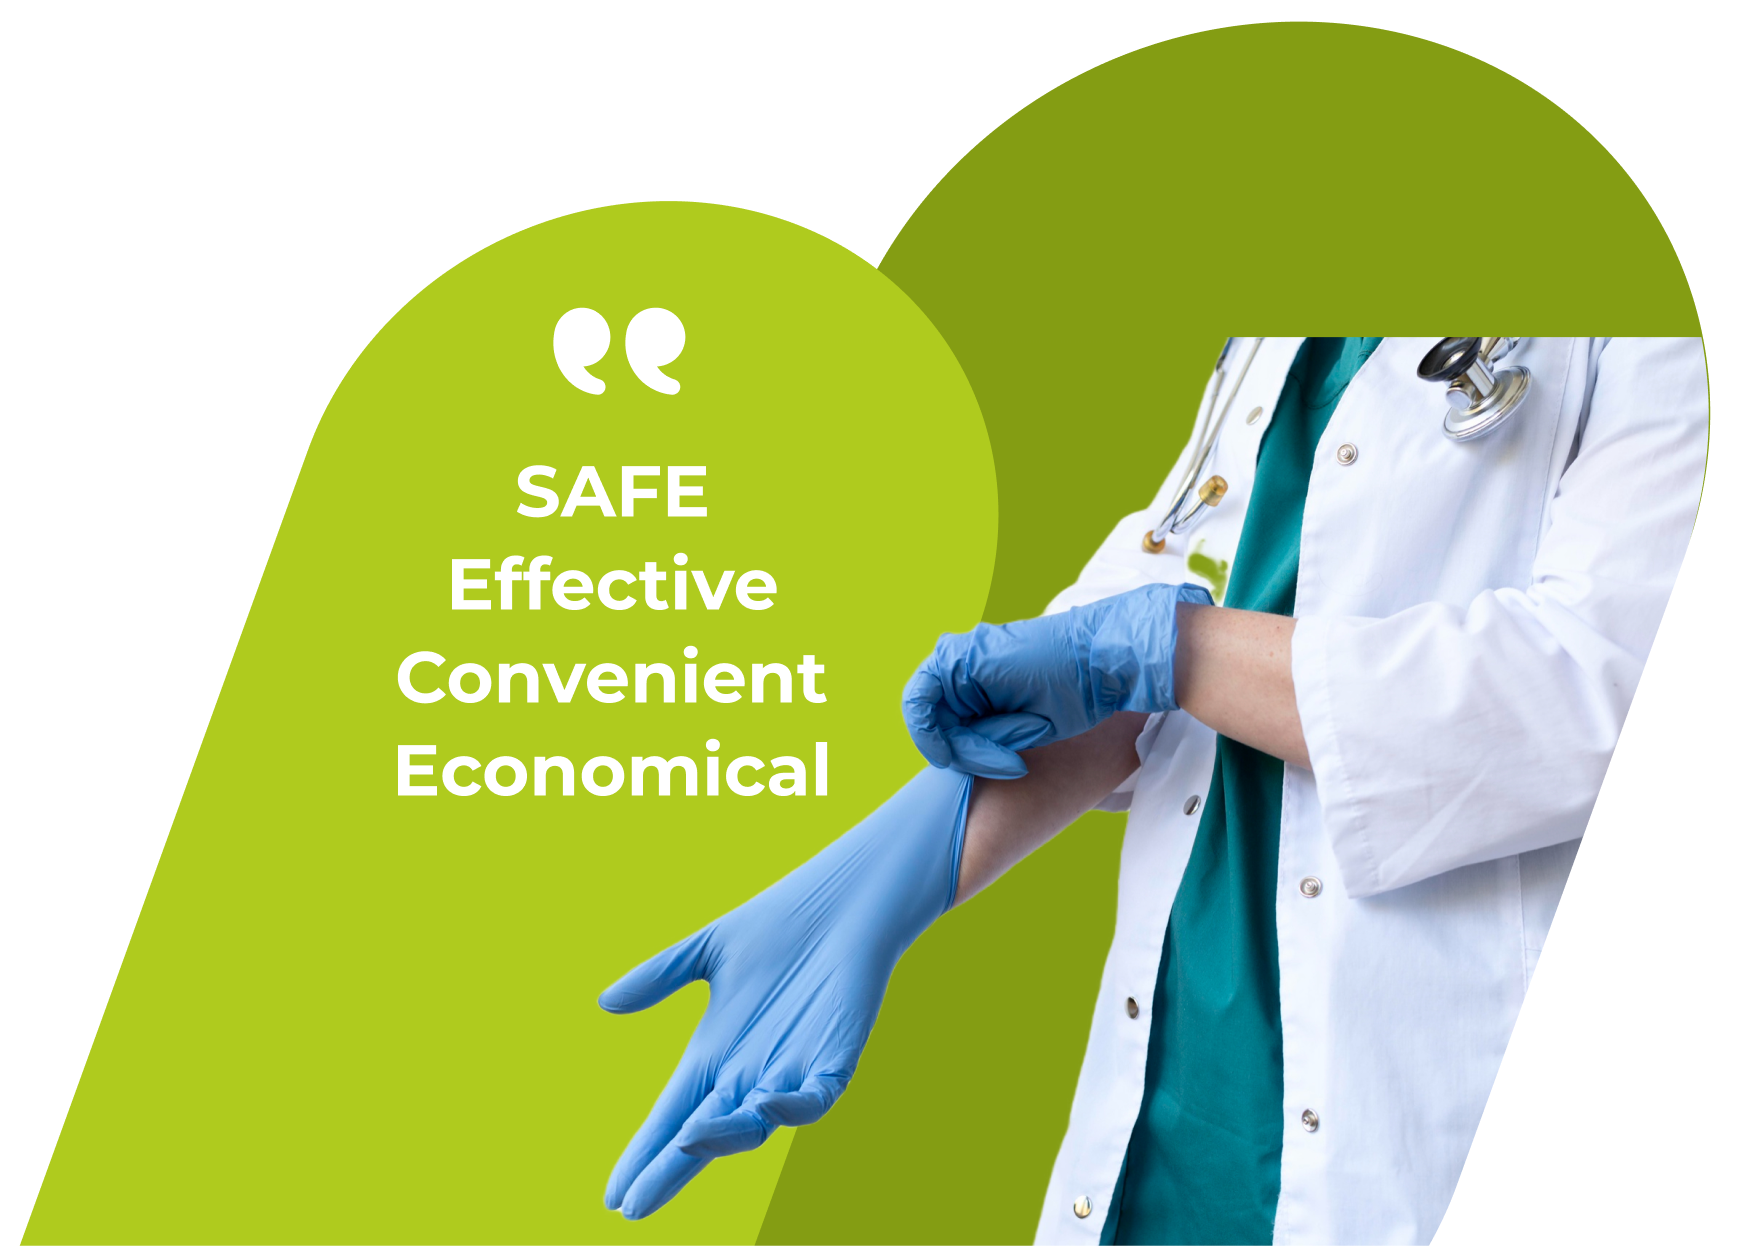
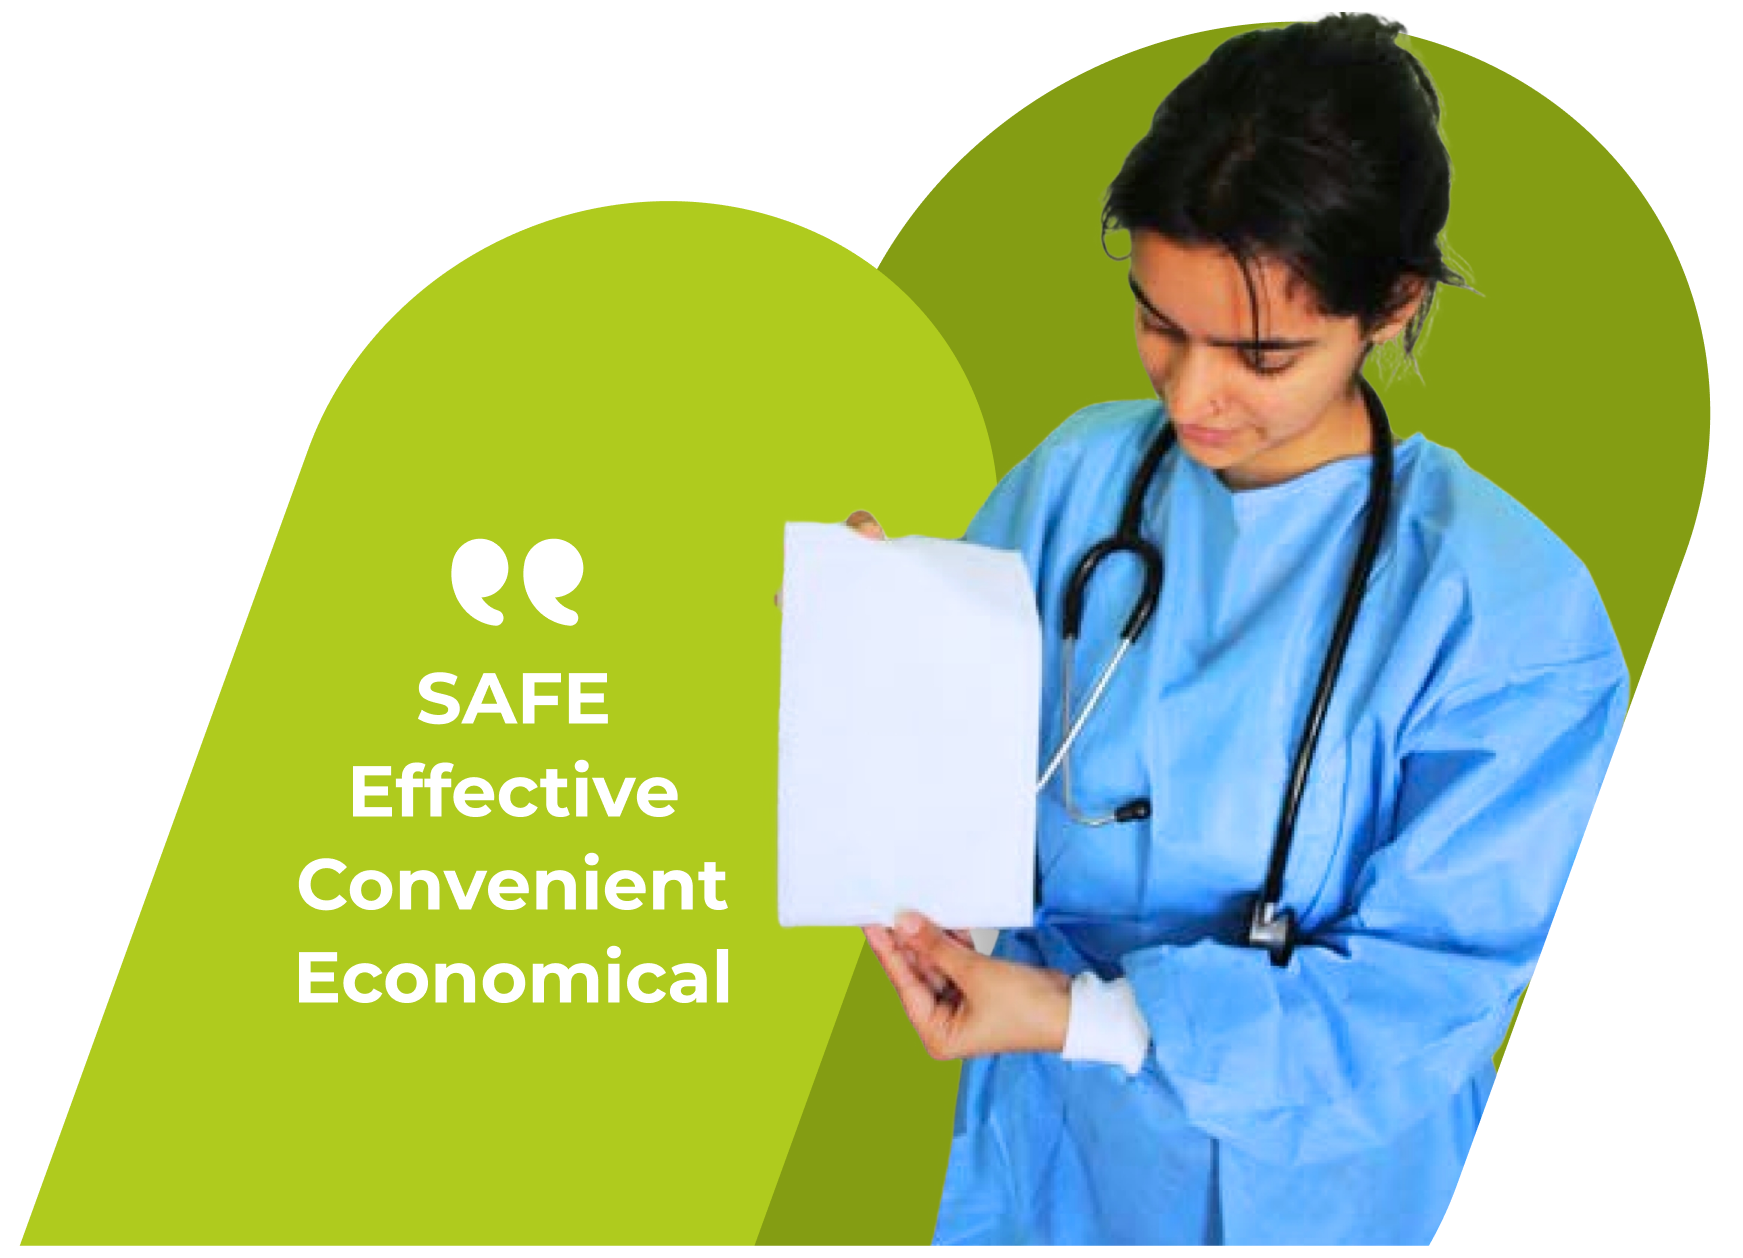
update image and add new component

diff --git a/src/components/ThirdSection.tsx b/src/components/ThirdSection.tsx
@@ -19,10 +19,11 @@ export default function ThirdSection() {
                     <div className='flex-1 relative grid lg:grid-cols-[1fr_450px] grid-cols-1 gap-5'>
                         <div className="w-full h-full relative flex justify-center flex-col pr-5">
                             <h3 className='font-semibold lg:text-3xl md:text-xl text-base text-secondry'>
-                                A Smarter Way to Care
+                                A New Standard in Hygiene Care
                             </h3>
                             <Subheading classname='text-left mt-3 max-w-2xl'>
-                                Wet Wash Gloves are an innovative alternative to traditional bed baths and wet wipes. Designed for safety, comfort, and efficiency, these single-use gloves are infused with pH-balanced cleansers that protect fragile skin while ensuring superior hygiene. Easy to warm in a microwave for added comfort, they save caregivers time, reduce infection risks, and preserve patient dignity—setting a new standard for hygiene in hospitals, elderly care, and palliative settings worldwide.
+                                Traditional bed baths are water-heavy, time-consuming, and infection-prone. EQ Wet Wash Gloves offer a modern alternative: pre-moistened, single-use cleansing gloves designed to protect delicate skin, improve caregiver efficiency, and preserve dignity.
+                                Microwave-safe for warmth, dermatologically tested for safety, and available in biodegradable options, they set a new benchmark for healthcare facilities, senior care, and home care services.
                             </Subheading>
                             <ButtonPrimary classname='mt-8 w-max'>
                                 Discover How It Works
@@ -30,7 +31,7 @@ export default function ThirdSection() {
                         </div>
 
                         <div className="w-full h-full relative flex lg:justify-end justify-center items-center">
-                            <Image src={'/images/product.png'} alt='image'
+                            <Image src={'/images/img.png'} alt='image'
                                 width={800}
                                 height={500}
                                 className='w-[450px]' />

diff --git a/src/components/WetWash.tsx b/src/components/WetWash.tsx
@@ -1,0 +1,28 @@
+import { Heading, Section, Subheading, Wrapper } from '@/utils/Section'
+import Image from 'next/image'
+import React from 'react'
+
+export default function WetWash() {
+    return (
+        <Section>
+            <Wrapper>
+                <div className='relative w-full flex flex-col lg:gap-14 md:gap-10 gap-8'>
+                    <div className='flex-1 text-center'>
+                        <Heading>
+                            How <span className='font-inter text-secondry'>Wet Wash</span> Gloves Work
+                        </Heading>
+                        <Subheading classname='max-w-xl mx-auto'>
+                            Hygiene made simple—in just a few easy steps.
+                        </Subheading>
+                    </div>
+
+                    <div className='relative w-full flex-1'>
+                        <Image src={'/images/products/wet-wash.png'} width={1200} height={800} alt='wet wash'
+                        className='w-full h-auto object-cover'
+                        />
+                    </div>
+                </div>
+            </Wrapper>
+        </Section>
+    )
+}

diff --git a/src/app/page.tsx b/src/app/page.tsx
@@ -6,6 +6,7 @@ import Hero from "@/components/Hero";
 import Products from "@/components/Products";
 import SecondComponent from "@/components/SecondComponent";
 import ThirdSection from "@/components/ThirdSection";
+import WetWash from "@/components/WetWash";
 import WhyUs from "@/components/WhyUs";
 
 export default function Home() {
@@ -15,6 +16,7 @@ export default function Home() {
       <SecondComponent />
       <ThirdSection />
       <FourthSection />
+      <WetWash/>
       <About />
       <WhyUs />
       <Products />
